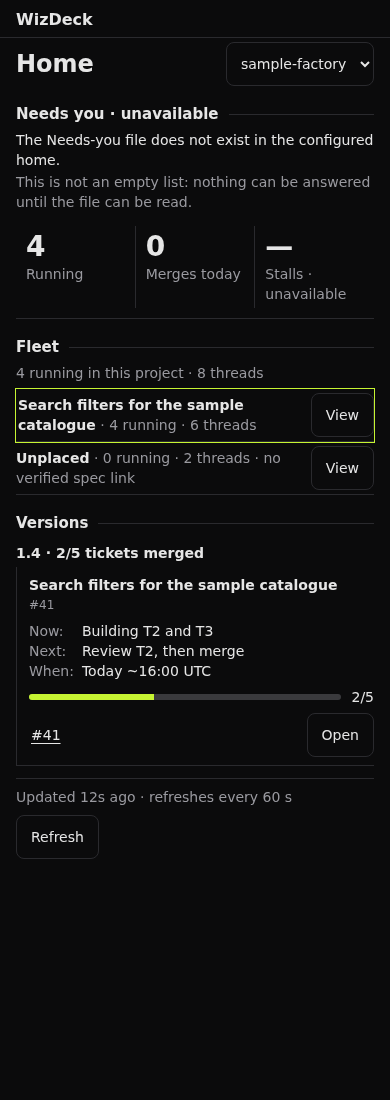
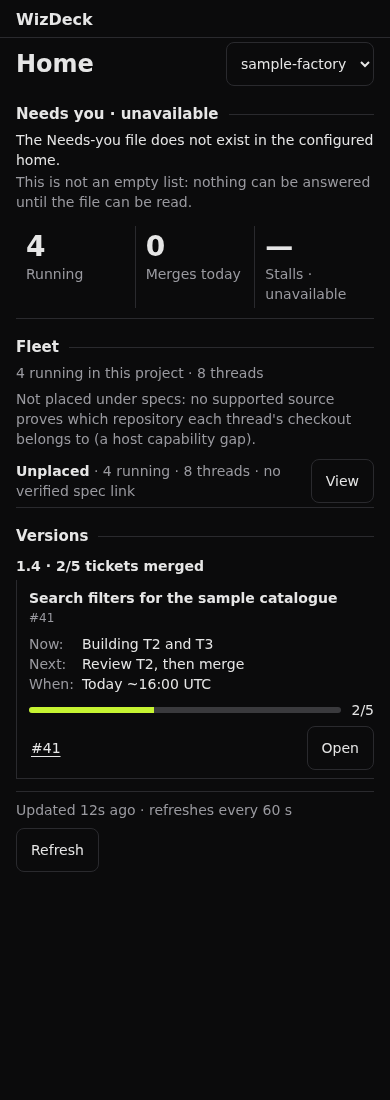
#75 F1: green: final correction R1/R2/R6 (no checkout provenance claimed from the project anchor, unproved work never placed via relatives, deferred focus bound to its factory and Home); typecheck and 905 tests pass

Changed region(s): [[0.0308, 0.34, 0.9538, 0.8036], [0.9538, 0.3709, 0.9846, 0.4018]]

diff --git a/wizbar/src/deck/fleet/model.ts b/wizbar/src/deck/fleet/model.ts
@@ -22,13 +22,18 @@ export type FleetLinkSourceV1 =
   | { status: "read"; pullRequests: FleetPullRequestV1[]; complete: boolean; stale: boolean; gaps: string[]; coverage: LinkCoverageV1 };
 
 /**
- * The repository the project's threads work in, from the host's project
- * record (`projects.get(...).gitRemoteUrl`). Without it, a branch name proves
- * nothing: the same name can exist in any configured repository.
+ * The repository one thread's checkout belongs to. A project's anchor remote
+ * does not prove it: Cloudroom projects can have sources on several hosts, a
+ * clone remote override, or an inspected local source (review R1). SDK 0.6.33
+ * gives a plugin no per-checkout repository evidence, so today every thread is
+ * `unverified` and no branch places anything: an explicit capability gap. A
+ * future supported source plugs in through `CheckoutProvenanceV1`.
  */
 export type RepositoryProvenanceV1 =
   | { status: "verified"; repository: string }
-  | { status: "unverified"; reason: "loading" | "unreadable" | "no-remote" | "unrecognised-remote" };
+  | { status: "unverified"; reason: "no-supported-source" };
+export type CheckoutProvenanceV1 = (thread: PluginSidebarThread) => RepositoryProvenanceV1;
+export const noCheckoutProvenance: CheckoutProvenanceV1 = () => ({ status: "unverified", reason: "no-supported-source" });
 
 const repoKey = (repository: string) => repository.toLowerCase();
 const repoOf = (ref: string) => ref.slice(0, ref.lastIndexOf("#"));
@@ -54,6 +59,11 @@ export function fleetLinkSource(views: readonly CacheView<FleetLinksV1>[] | unde
   }
   if (read === 0) return loading ? { status: "loading" } : { status: "unavailable", detail: gaps.join(" ") || "Work links could not be read." };
   return { status: "read", pullRequests, complete, stale, gaps, coverage };
+}
+
+/** True when some thread has a branch but no supported source proves its checkout's repository. */
+export function provenanceGap(model: FleetModelV1): boolean {
+  return [...model.groups.flatMap((group) => group.rows), ...model.unplaced.rows].some((row) => row.link.status === "repository-unverified");
 }
 
 // ---- Rows ----------------------------------------------------------------------
@@ -142,15 +152,27 @@ function resolveLink(branch: string | null, links: FleetLinkSourceV1, repository
   return { status: "no-spec", branch, pullRequest, tickets: pullRequest.tickets };
 }
 
+const noProvenanceRow: RepositoryProvenanceV1 = { status: "unverified", reason: "no-supported-source" };
+
+/**
+ * A link that leaves the thread's own work unknown: it may belong to another
+ * spec, so the row neither takes a spec from its relatives nor lends one (R2).
+ */
+function uncertain(link: WorkLinkV1): boolean {
+  return link.status === "unproved" || link.status === "ambiguous" || link.status === "repository-unverified" ||
+    link.status === "links-unavailable" || (link.status === "no-pull-request" && !link.complete);
+}
+
 export function buildFleet(input: {
   projectId: string;
   threads: readonly PluginSidebarThread[];
   health: LiveHealthV1;
   links: FleetLinkSourceV1;
-  /** The project's repository from the host; branches match only within it. */
-  repository: RepositoryProvenanceV1;
+  /** Each thread's checkout repository; branches match only within it. Default: no supported source. */
+  provenance?: CheckoutProvenanceV1;
 }): FleetModelV1 {
-  const { projectId, health, links, repository } = input;
+  const { projectId, health, links } = input;
+  const provenance = input.provenance ?? noCheckoutProvenance;
   const running = health.running;
   const runningIds = running.status === "ready" ? new Set(running.rows.map((row) => row.id)) : null;
 
@@ -163,7 +185,7 @@ export function buildFleet(input: {
     isHidden: thread?.isHidden ?? false,
     running: runningIds ? runningIds.has(id) : null,
     stall: health.stalls.get(id),
-    link: resolveLink(thread?.environment?.branchName ?? null, links, repository),
+    link: resolveLink(thread?.environment?.branchName ?? null, links, thread ? provenance(thread) : noProvenanceRow),
     spec: null, placement: "none", role: null, depth: 0, parentNote: null,
     createdAt: thread?.createdAt ?? Number.MAX_SAFE_INTEGER,
   });
@@ -205,6 +227,7 @@ export function buildFleet(input: {
   const resolving = new Set<string>();
   const place = (row: FleetRowV1): SpecRefV1 | null => {
     if (row.placement !== "none" || resolving.has(row.id)) return row.spec;
+    if (uncertain(row.link)) return null;
     resolving.add(row.id);
     const mine = own(row);
     const fromChildren = descendantSpecs(row);

diff --git a/wizbar/src/deck/home/Home.tsx b/wizbar/src/deck/home/Home.tsx
@@ -4,6 +4,7 @@ import { useEffect, useState } from "react";
 import { useBbContext, useBbNavigate } from "@get-bb/plugin-sdk/app";
 import type { FocusRequestV1 } from "../../factory-contract";
 // F1 (#75) live/fleet insertion.
+import { useRef } from "react";
 import type { SpecRefV1 } from "../../factory-contract";
 import { useSelection } from "../selection/selection";
 import { useLiveFleet } from "../live/useLiveFleet";
@@ -51,17 +52,23 @@ export function Home({ focus }: { focus: FocusRequestV1 | null }) {
 
   // F1 (#75): an explicit Needs-you focus leaves a fleet page for Home, where the item is.
   // The item is not in the DOM while the fleet page is shown, so it is focused
-  // once Home has mounted it; a read Needs-you list without it ends the wait.
-  const [refocus, setRefocus] = useState<string | null>(null);
+  // once this Home has mounted it. The request belongs to its factory and to
+  // this Home instance: a factory switch cancels it, and only this Home's own
+  // mounted item is looked up. A read Needs-you list without it ends the wait.
+  const [refocus, setRefocus] = useState<{ projectKey: string; itemId: string } | null>(null);
+  const homeAnchor = useRef<HTMLSpanElement>(null);
   useEffect(() => {
-    if (focusedItemId && fleetPage) { setFleetPage(null); setRefocus(focusedItemId); }
+    if (focusedItemId && fleetPage && projectKey) { setFleetPage(null); setRefocus({ projectKey, itemId: focusedItemId }); }
   }, [focusedItemId]);
+  useEffect(() => { setRefocus((pending) => pending && pending.projectKey !== projectKey ? null : pending); }, [projectKey]);
   useEffect(() => {
-    if (!refocus || fleetPage) return;
-    const item = document.getElementById(`wizdeck-need-${refocus}`);
+    if (!refocus || fleetPage || refocus.projectKey !== projectKey || !view || view.projectKey !== refocus.projectKey) return;
+    const home = homeAnchor.current?.closest(".wizdeck-home");
+    const id = `wizdeck-need-${refocus.itemId}`.replace(/["\\]/g, "\\$&");
+    const item = home?.querySelector<HTMLElement>(`[id="${id}"]`) ?? null;
     if (item) item.focus();
-    if (item || (view && view.needsYou.freshness !== "loading")) setRefocus(null);
-  }, [refocus, fleetPage, view]);
+    if (item || view.needsYou.freshness !== "loading") setRefocus(null);
+  }, [refocus, fleetPage, view, projectKey]);
 
   useEffect(() => {
     if (!focusedItemId || !view) return;
@@ -117,6 +124,7 @@ export function Home({ focus }: { focus: FocusRequestV1 | null }) {
             ? <LiveHealthRow model={fleet} mergesToday={view.health.mergesToday} mergesTodayDetail={view.health.mergesTodayDetail} />
             : <HealthRow health={view.health} />}
           {/* F1 slot: running agents and the live fleet tree. */}
+          <span ref={homeAnchor} hidden />
           {fleet && projectKey && (
             <FleetSection model={fleet} board={view.board} actions={fleetActions} selection={selection} projectKey={projectKey}
               onView={(spec) => setFleetPage({ projectKey, spec })} />

diff --git a/wizbar/src/deck/live/useLiveFleet.ts b/wizbar/src/deck/live/useLiveFleet.ts
@@ -1,23 +1,28 @@
 // The panel's live fleet hook (F1, #75). It reads the host's sidebar state
-// once (threads and the #160 running inventory), the project's repository
-// from the host's project record, and the backend's cached work links. It
-// makes no GitHub read, no timeline read and no write.
+// once (threads and the #160 running inventory) and the backend's cached
+// work links. It makes no GitHub read, no timeline read and no write.
 import { useMemo } from "react";
 import { experimental_useSidebarThreads, useRealtimeConnectionState } from "@get-bb/plugin-sdk/app";
 import type { CacheView } from "../data/cache";
-import { buildFleet, fleetLinkSource, type FleetModelV1 } from "../fleet/model";
+import { buildFleet, fleetLinkSource, noCheckoutProvenance, type CheckoutProvenanceV1, type FleetModelV1 } from "../fleet/model";
 import type { FleetLinksV1 } from "../fleet/links";
 import { liveHealth } from "./health";
 import { inventoryReading } from "./inventory";
-import { useProjectRepository } from "./repository";
 
-export function useLiveFleet(projectId: string | null, linkViews: readonly CacheView<FleetLinksV1>[] | undefined, now: number): FleetModelV1 | null {
+/**
+ * `provenance` is the per-checkout repository seam (review R1). Production
+ * passes none: SDK 0.6.33 has no supported per-checkout source, so nothing is
+ * placed by branch. Tests of the tree's rendering pass a fixture lookup.
+ */
+export function useLiveFleet(
+  projectId: string | null, linkViews: readonly CacheView<FleetLinksV1>[] | undefined, now: number,
+  provenance: CheckoutProvenanceV1 = noCheckoutProvenance,
+): FleetModelV1 | null {
   const sidebar = experimental_useSidebarThreads();
   const connection = useRealtimeConnectionState();
-  const repository = useProjectRepository(projectId);
   return useMemo(() => {
     if (!projectId) return null;
     const health = liveHealth({ inventory: inventoryReading(sidebar, connection), projectId, now });
-    return buildFleet({ projectId, threads: sidebar.status === "ready" ? sidebar.threads : [], health, links: fleetLinkSource(linkViews), repository });
-  }, [projectId, sidebar, connection, linkViews, now, repository]);
+    return buildFleet({ projectId, threads: sidebar.status === "ready" ? sidebar.threads : [], health, links: fleetLinkSource(linkViews), provenance });
+  }, [projectId, sidebar, connection, linkViews, now, provenance]);
 }

diff --git a/wizbar/src/deck/fleet/fleet.test.ts b/wizbar/src/deck/fleet/fleet.test.ts
@@ -10,18 +10,17 @@ import { buildFleet, fleetLinkSource, specOfThread, threadsOfSpec, viewGroup, ty
 /** A link read; `coverage` says which repositories' open and merged pull requests were read in full. */
 const read = (pullRequests = fxPullRequests, complete = true, coverage: Record<string, { open: boolean; merged: boolean }> = { [REPO]: { open: complete, merged: true } }): FleetLinkSourceV1 =>
   ({ status: "read", pullRequests, complete, stale: false, gaps: [], coverage });
-/** The project's repository, as the host's project record states it (R1). */
+/** A fixture checkout provenance (seam only: no supported source exists in SDK 0.6.33). */
 const verified: RepositoryProvenanceV1 = { status: "verified", repository: REPO };
 /**
  * Per-thread repository provenance is a seam: no supported source exists in
  * SDK 0.6.33 (R1), so placement tests supply a fixture lookup explicitly.
- * (`repository` is the round-1 field, kept so the red run at dc045d8 sees the same inputs.)
  */
 const model = (links: FleetLinkSourceV1 = read(), threads = fxThreads, host: { runningThreads?: unknown } = { runningThreads: fxRunning }, repository: RepositoryProvenanceV1 = verified): FleetModelV1 =>
   buildFleet({
-    projectId: "prj_a", threads, repository, provenance: () => repository,
+    projectId: "prj_a", threads, provenance: () => repository,
     health: liveHealth({ inventory: readHostInventory(host), projectId: "prj_a", now: fxNow }), links,
-  } as Parameters<typeof buildFleet>[0]);
+  });
 const ids = (rows: { id: string }[]) => rows.map((row) => row.id);
 const everyRow = (m: FleetModelV1) => [...m.groups.flatMap((group) => group.rows), ...m.unplaced.rows];
 
@@ -107,7 +106,7 @@ describe("fleet placement", () => {
     expect(m.groups).toEqual([]); // Nor are its manager and helpers placed through it.
     expect(threadsOfSpec(m, SPEC)).toEqual([]);
 
-    const unknown = model(read(), fxThreads, { runningThreads: fxRunning }, { status: "unverified", reason: "no-remote" });
+    const unknown = model(read(), fxThreads, { runningThreads: fxRunning }, { status: "unverified", reason: "no-supported-source" });
     expect(unknown.groups).toEqual([]);
     expect(everyRow(unknown).find((row) => row.id === "thr_b2")?.link).toMatchObject({ status: "repository-unverified", branch: "room/t2" });
     expect(threadsOfSpec(unknown, SPEC)).toEqual([]);

diff --git a/wizbar/src/deck/fleet/FleetViews.tsx b/wizbar/src/deck/fleet/FleetViews.tsx
@@ -9,7 +9,7 @@ import type { HomeViewV1 } from "../data/home";
 import { LIME, SectionHeading, UrlButton, tapTarget } from "../home/sections";
 import { setSelection } from "../selection/selection";
 import { stallLabel } from "../live/health";
-import { specOfThread, viewGroup, type FleetGroupV1, type FleetModelV1, type FleetRowV1, type FleetSortV1, type WorkLinkV1 } from "./model";
+import { provenanceGap, specOfThread, viewGroup, type FleetGroupV1, type FleetModelV1, type FleetRowV1, type FleetSortV1, type WorkLinkV1 } from "./model";
 
 const AMBER = "var(--wizdeck-amber, #f5a524)";
 const muted: CSSProperties = { color: "var(--muted-foreground)" };
@@ -50,7 +50,7 @@ function linkWords(link: WorkLinkV1): string {
     case "no-spec": return "no spec linked to its ticket";
     case "ambiguous": return `link ambiguous: ${link.detail}`;
     case "unproved": return `not placed: ${link.detail}`;
-    case "repository-unverified": return "not placed: the project's repository is not known from the host";
+    case "repository-unverified": return "not placed: no supported source proves this checkout's repository";
     case "no-pull-request": return link.complete ? "no pull request for its branch" : "no pull request found in what was read";
     case "no-branch": return "no work link: no branch";
     case "links-unavailable": return "work links unavailable";
@@ -59,6 +59,9 @@ function linkWords(link: WorkLinkV1): string {
 
 function linksNote(model: FleetModelV1): string | null {
   const links = model.links;
+  if (links.status === "read" && provenanceGap(model)) {
+    return "Not placed under specs: no supported source proves which repository each thread's checkout belongs to (a host capability gap).";
+  }
   if (links.status === "not-connected") return "Work links were not sent by the backend, so no thread can be placed under a spec.";
   if (links.status === "loading") return "Reading work links…";
   if (links.status === "unavailable") return `Work links unavailable: ${links.detail}`;

diff --git a/wizbar/src/deck/fleet/FleetViews.test.tsx b/wizbar/src/deck/fleet/FleetViews.test.tsx
@@ -99,9 +99,12 @@ function mountHome(runningThreads?: unknown, withLinks = false, withQueue = fals
   });
 }
 
+/** Seam only: a fixture per-checkout repository, which no supported host source gives today (R1). */
+const fixtureProvenance = () => ({ status: "verified" as const, repository: REPO });
+
 /** The fleet page and Home section with work links connected, as the backend lease will supply them. */
 function LinkedFleet() {
-  const fleet = useLiveFleet("prj_a", linkViews, fxNow)!;
+  const fleet = useLiveFleet("prj_a", linkViews, fxNow, fixtureProvenance)!;
   const selection = useSelection();
   const [page, setPage] = useState<SpecRefV1 | null | undefined>(undefined);
   const view = result().view!;
@@ -196,7 +199,7 @@ describe("R4: an explicit Needs-you focus from a fleet page", () => {
     Element.prototype.scrollIntoView = scroll;
     const slot = mountHome(fxRunning, true, true);
     await flush();
-    fireEvent.click(screen.getByRole("button", { name: /View fleet for/ }));
+    fireEvent.click(screen.getByRole("button", { name: "View unplaced threads" }));
     const search = screen.getByPlaceholderText("Search threads, branches, #refs");
     search.focus();
     expect(document.activeElement).toBe(search);

diff --git a/docs/evidence/wizdeck-v0.1/f1/README.md b/docs/evidence/wizdeck-v0.1/f1/README.md
@@ -22,17 +22,26 @@ B1 (#76) seam: `threadsOfSpec(model, spec)` gives a spec's full placed membershi
 
 Reviewed head `ee06603`. Red: `red-review-1.log` (commit `21a41e5`). Seven tests fail on their assertions against the reviewed code, nothing planted; a cancellation guard already passes.
 
-- **R1, branch name alone links across repositories.** A thread's repository now comes from the host's own project record: `useSdk().projects.get({ projectId }).gitRemoteUrl` (SDK 0.6.33), read once per shown project in the panel, never per row. Only a plain GitHub remote (`https://github.com/o/n[.git]`, `git@github.com:o/n[.git]`, `ssh://git@github.com/o/n[.git]`) counts. Branches match only that repository's PRs. Without that provenance (loading, unreadable, no or unrecognised remote), a thread keeps its row with "not placed: the project's repository is not known from the host", and nothing propagates to relatives or `threadsOfSpec`. This adds no host field, setting or RPC. Proofs: `fleet.test.ts` "matches a branch only within the thread's verified repository…" (a sole same-named PR in another repository), and `repository.test.ts` (look-alike hosts, other forges, paths and bare names refused; a planted loose pattern fails it). Limit: this trusts the host's project remote as the repository every thread in that project works in. That has not been observed on an installed host.
+- **R1, branch name alone links across repositories.** *Superseded by the final correction below.* Round 1 used the project's anchor remote (`projects.get(...).gitRemoteUrl`) as every thread's repository; the re-check showed that a project's sources can differ from its anchor. That read and its parser are removed.
 - **R2, uniqueness and ticket agreement unproved.** `FleetLinksV1` (F1's own type inside the approved `fleetLinks` field) now records `openComplete` and `mergedComplete` per repository. An open match needs every open PR read. A merged-only match needs both lists read. A PR whose closing tickets were truncated (`ticketsComplete: false`) is not proof of one spec. In each case the row keeps its known ticket/PR links with status `unproved` and is not placed. The merged list's bound does not affect an open match. An unread repository proves nothing. Proofs: `fleet.test.ts` "keeps the known links but withholds placement when closing tickets were truncated", "withholds placement when the relevant pull requests were not all read…".
 - **R3, a failed continuation discarded read pages.** A failed or rate-limited later open-PR page now keeps the first page and the merged list as partial data (`complete: false`, `openComplete: false`, fixed-wording gap). A rate limit's deadline goes to the shared cache as `retryAt`, and cancellation still propagates. Proofs, through the real plugin entry: `fleet-server.test.ts` "on first load, a 503 continuation…", "a rate-limited continuation keeps the first page and holds reads until GitHub's reset", "a continuation failure that echoes the token…"; `fleet.test.ts` "still propagates cancellation during a continuation".
 - **R4, Needs-you focus from a fleet page.** F1's own insertion closes the fleet page and focuses the requested item once Home has mounted it. A read Needs-you list without the item ends the wait, so a later refresh cannot steal focus. D1's focus effect is unchanged. Proof: `FleetViews.test.tsx` "focuses the requested queue item once Home is back…". It checks `document.activeElement` with a fresh synthetic queue, then a selection change and a realtime refresh move nothing. B1's cross-factory and repeated-click focus remain B1's.
 - **R5** (polish, #88) is not changed here. The fixture-only timestamp check is not counted as evidence.
 
+## Final correction (orchestrator decision: fix once more R1, R2, R6)
+
+Reviewed head `dc045d8`. Red: `red-final-check.log` (commit `2539150`). Four tests fail on their assertions against `dc045d8`, nothing planted. The coverage-boundary table already passes there and is kept as a guard.
+
+- **R1, project anchor is not checkout provenance.** A Cloudroom project can have sources on several hosts, a clone remote override or an inspected local source, so its anchor remote does not prove any one thread's checkout repository. SDK 0.6.33 gives a plugin no per-checkout repository evidence. `project.inspect` and `host.discover_repos` are host-daemon commands, not plugin APIs, and reading checkout paths would be path inference. The host's per-thread PR hook would prove it, but it is a per-row lookup, which the spec forbids. So every thread's provenance is now `unverified` (`no-supported-source`). No branch places anything, and nothing reaches relatives, `specOfThread` or `threadsOfSpec`. Home says so plainly: "Not placed under specs: no supported source proves which repository each thread's checkout belongs to (a host capability gap)". Each row reads "not placed: no supported source proves this checkout's repository". The panel no longer calls `projects.get`. `CheckoutProvenanceV1` (`fleet/model.ts`, optional `useLiveFleet` argument) is the seam a future supported source would fill. Tests of the tree's rendering pass a fixture lookup there; production passes none. Proof: `FleetViews.test.tsx` "receives the backend's fleetLinks but places nothing by branch without per-checkout provenance". It renders through the real panel with an anchor remote available, and checks that no spec group appears, all 8 threads are unplaced and no `projects` SDK call is made. **Capability gap (open):** real placement needs a supported per-checkout repository source, or an approved use of the host's per-thread PR lookup.
+- **R2, unproved work through relatives.** A row whose link leaves its own work unknown (`unproved`, `ambiguous`, `repository-unverified`, `links-unavailable`, or "no pull request" from an incomplete read) now neither takes a spec from its parent or descendants nor lends one. Its known ticket/PR links stay visible. Proofs: `fleet.test.ts` "never gives unproved work a spec through its parent or its descendants" (a proved parent and a truncated child, checked via `specOfThread`/`threadsOfSpec`; a lead whose only child is unproved), and "treats missing or unknown coverage as unread, through the real fleetLinkSource" (missing, null, string and number coverage; the unrelated merged bound / open-match control; a merged-only match with unknown merged coverage). Only the two approved booleans are used.
+- **R6, deferred focus scope.** The deferred request now records its factory, is cancelled when the factory changes, and looks only inside its own Home (found from an anchor at F1's slot, by attribute selector). It ends when that Home's read list lacks the item. D1's shell and focus effect are unchanged, and F1's `useRef` import sits in F1's import block. Proofs: `FleetViews.test.tsx` "cancels on a manual switch from loading A to B; focus stays on the picker" (a second Home is mounted) and "focuses its own Home's item when another mounted Home shows the same id". The round-1 R4 test still passes, now opened from the unplaced page.
+- R3's preserved pages, actual reset deadline, cancellation and token protections are unchanged and still pass.
+
 ## Claims and proof
 
 | Acceptance criterion | Claim | Evidence | Ready |
 | --- | --- | --- | --- |
-| Searchable/sortable fleet with managers/builders/reviewers/helpers, known issue/PR links, honest unplaced work | Placement comes only from branch → same-repository PR → closing ticket → parent spec. Fork PRs are skipped. Titles are never parsed. A manager is placed when all its linked descendants agree on one spec; a helper inherits from its parent. Ambiguous links, missing branches or PRs, and unread links stay unplaced, each with its reason. Hidden threads, absent-parent threads and running threads missing from the sidebar list each appear exactly once. Search keeps ancestors as context; sorting reorders siblings only and never touches the sidebar's order | `src/deck/fleet/fleet.test.ts` (placement, title, ambiguity, partial-read, search/sort, reader cases); `FleetViews.test.tsx` "shows the spec's managers, builders…", "searches and sorts…" | Fixtures now, through the real backend lease and Home wiring |
+| Searchable/sortable fleet with managers/builders/reviewers/helpers, known issue/PR links, honest unplaced work | Placement comes only from branch → same-repository PR → closing ticket → parent spec. Fork PRs are skipped. Titles are never parsed. A manager is placed when all its linked descendants agree on one spec; a helper inherits from its parent. Ambiguous links, missing branches or PRs, and unread links stay unplaced, each with its reason. Hidden threads, absent-parent threads and running threads missing from the sidebar list each appear exactly once. Search keeps ancestors as context; sorting reorders siblings only and never touches the sidebar's order | `src/deck/fleet/fleet.test.ts` (placement, title, ambiguity, partial-read, search/sort, reader cases); `FleetViews.test.tsx` "shows the spec's managers, builders…", "searches and sorts…" | Placement rules on fixtures through the provenance seam; in production nothing is placed until a supported per-checkout repository source exists (R1 capability gap, open) |
 | Phone and desktop match the confirmed hierarchy; Home back and native Open | Spec page: ← Home, wrapping title, Running/Threads/Stalls summary, Now/Next/When, progress, search and sort, nested rows with 44 px Open, a separate Merged tickets section. Open calls `toThread`; Home back restores Home; an explicit Needs-you focus returns to Home | `FleetViews.test.tsx` "opens unplaced work inside WizDeck…", "returns Home for an explicit Needs-you focus"; screenshots below | Fixtures and renders now; installed host not tested |
 | Scope, coverage, duration and stall evidence truthful; highlights never navigate | Running is the host inventory (#160 `runningThreads`, via C1's reader), filtered to the selected factory's Cloudroom project. An absent field, error, loading or dropped connection makes Running unavailable, never 0. No running or idle duration is shown: no verified clock exists. Stalls use C1's `stallStatus` with `stallThresholdV1` (`none`), so every stall reads unavailable. A row click or an external selection only highlights: no navigation, scroll or focus change | `src/deck/live/health.test.ts`; `FleetViews.test.tsx` "keeps Running unavailable on an older host…", "counts the host's running threads for this project only", "highlights a selected thread's spec…" | Now (fixtures) |
 | Upstream merge gates verified before merge; installed-host capability recorded before live acceptance | Not this builder's action. Both PRs were open at the last fleet read | — | Open |
@@ -56,8 +65,8 @@ Reviewed head `ee06603`. Red: `red-review-1.log` (commit `21a41e5`). Seven tests
 
 `targets/` holds generated design targets, made and committed before any visible code (prompts and known defects in `targets/prompt.txt`). `screenshots/` holds the real components rendered at 1440 px and 390 px. The throwaway harness is not committed: a Vite build with the SDK app hooks stubbed to synthetic state, the #160 inventory from `fleet/fixtures.ts`, and host colours approximated.
 
-- `desktop-1440.png`, `phone-390.png`: the spec fleet page with work links. The phone capture is taller than 844 px so the merged section shows.
-- `home-desktop-1440.png`, `home-phone-390.png`: Home with the scoped Running count and the Fleet section, the spec group highlighted by a thread selection.
+- `desktop-1440.png`, `phone-390.png`: the spec fleet page with work links **and a fixture per-checkout provenance through the seam**. This is a layout render of a placed tree, which production cannot show today (R1 gap). The phone capture is taller than 844 px so the merged section shows.
+- `home-desktop-1440.png`, `home-phone-390.png`: Home as production renders it now: the scoped Running count, and the Fleet section with every thread unplaced and the capability-gap note.
 
 Differences from the targets: rows show what the sources prove. The target's "builder … PR: none yet" row cannot exist, because a ticket is known only through its PR. A thread with no PR is placed by its parent and labelled helper/reviewer, with "no pull request for its branch". The inventory-only running child appears as "Running thread not in the sidebar list". Unplaced work sits on Home and its own page, not under the spec. Open buttons are 44 px.
 
